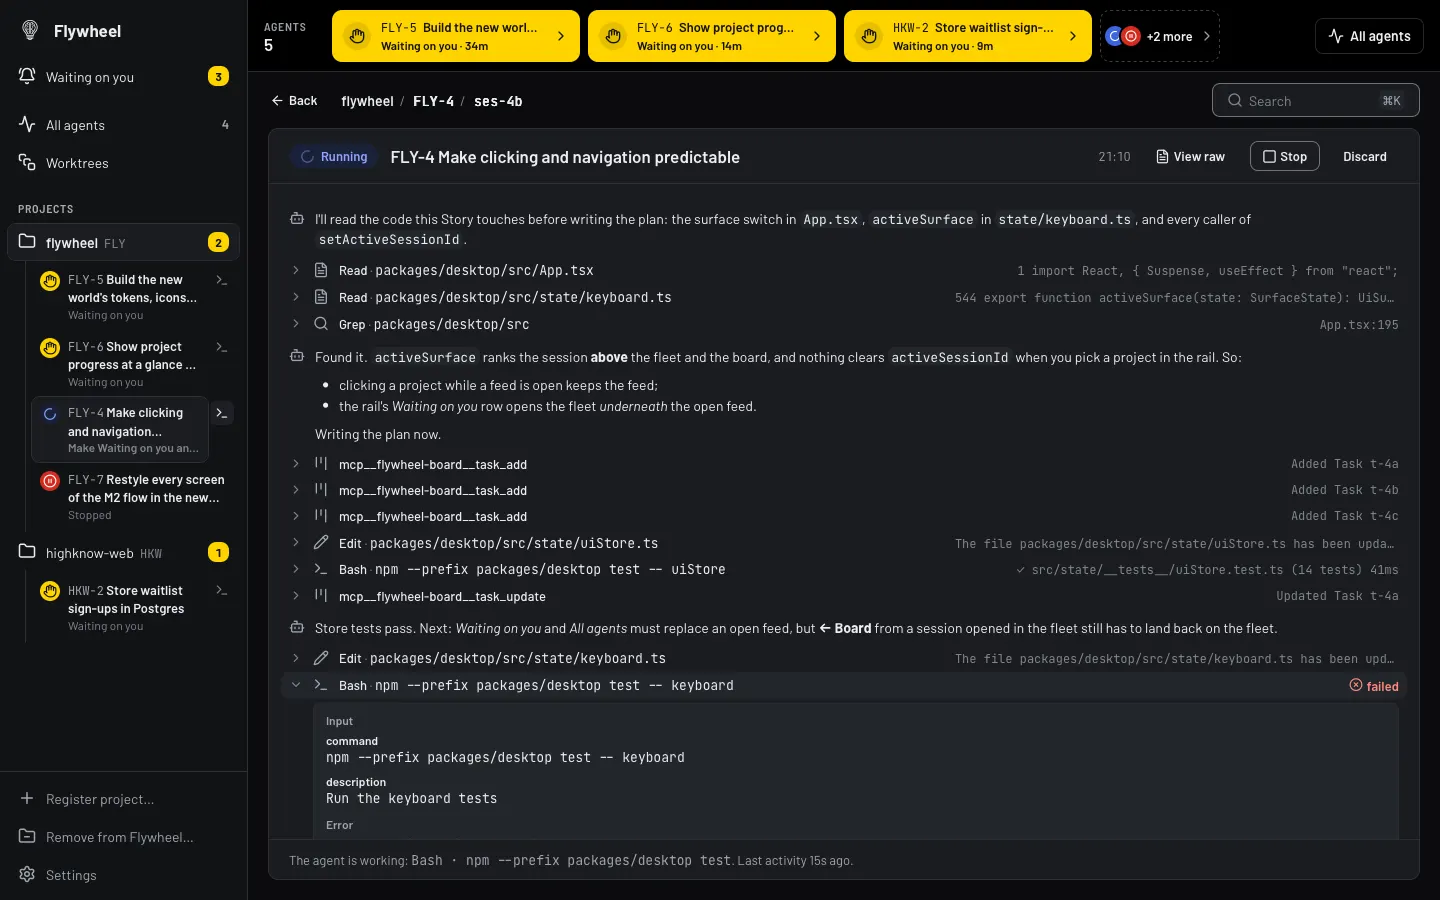
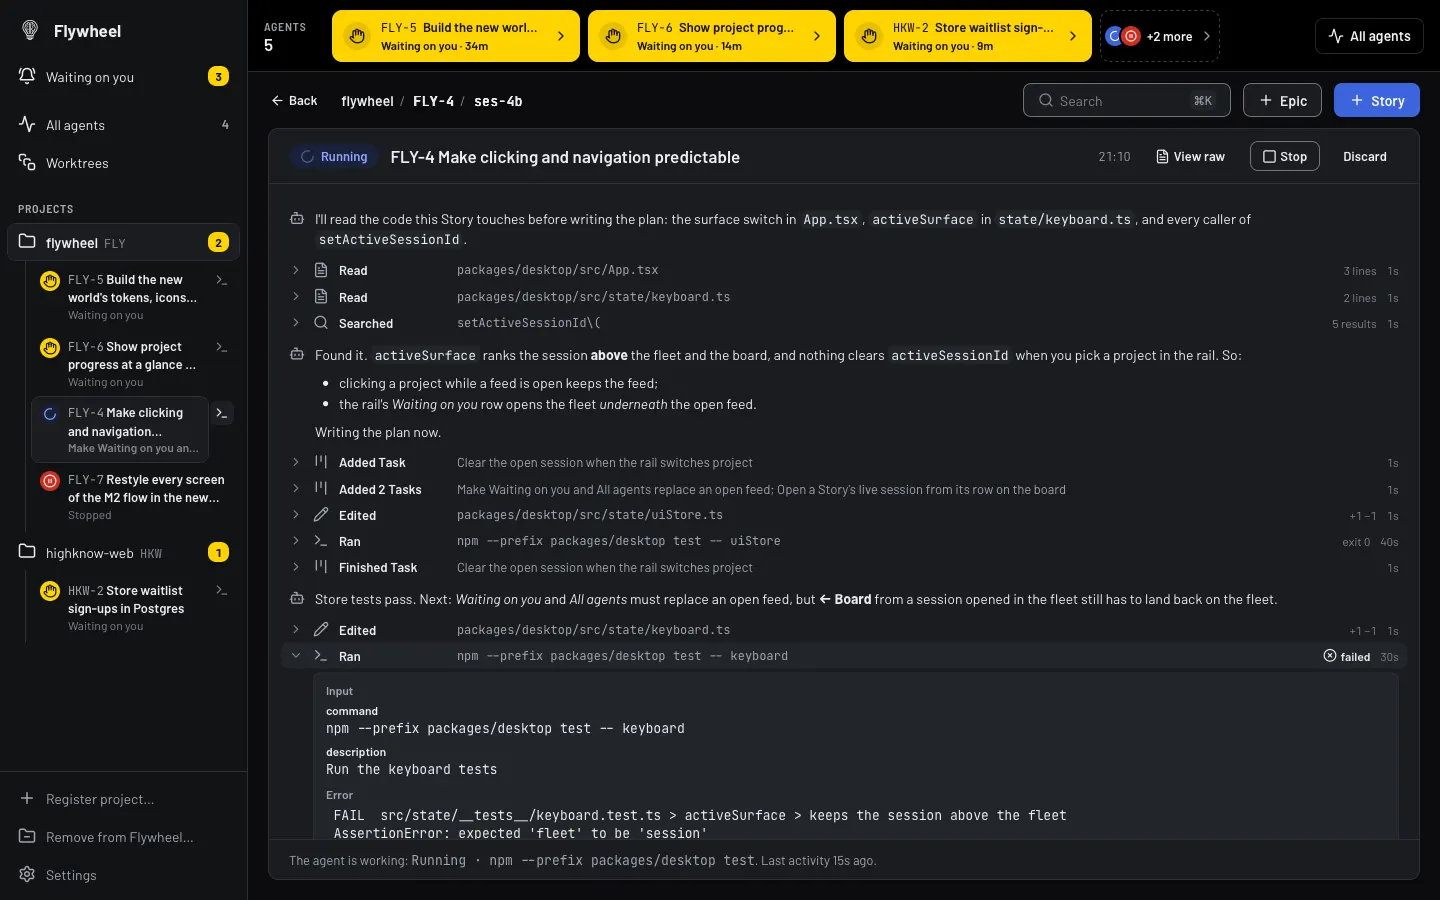
docs: the critique re-shot with the agent station, feed verbs and + Epic
The fixture's board tools now answer in the core's real shapes (task_add takes
titles, the Task tools answer the checklist, Checks and hand-off answer JSON).
Two new screens: a Story waiting on you, and the Stop confirmation. DESIGN.md
records the agent station and the feed row.

diff --git a/packages/desktop/src/test/critique/m2-fixture.ts b/packages/desktop/src/test/critique/m2-fixture.ts
@@ -149,6 +149,9 @@ const call = (secondsAgo: number, id: string, toolName: string, input: unknown) 
 const result = (secondsAgo: number, id: string, output: unknown, isError = false) => ev(secondsAgo, { type: "tool_result", output, toolUseId: id, ...(isError ? { isError: true } : {}) });
 const say = (secondsAgo: number, text: string) => ev(secondsAgo, { type: "assistant_text", text });
 const BOARD = "mcp__flywheel-board__";
+/** A Task tool's answer as the core words it (`tasks_as_tool_result`): the whole checklist, here its first `n` Tasks. */
+const checklist = (storyId: string, n: number) =>
+  JSON.stringify({ tasks: (TASKS[storyId] ?? []).slice(0, n).map((t) => ({ task_id: t.id, title: t.title, state: t.state })) });
 
 const QUESTIONS = [
   {
@@ -183,18 +186,16 @@ const LOGS: Record<string, Record<string, unknown>[]> = {
     call(1236, "t3", "Grep", { pattern: "setActiveSessionId\\(", path: "packages/desktop/src" }),
     result(1235, "t3", "App.tsx:195\nApp.tsx:219\nApp.tsx:248\nprojects/ProjectRail.tsx:170\nfleet/FleetSurface.tsx:486"),
     say(1200, "Found it. `activeSurface` ranks the session **above** the fleet and the board, and nothing clears `activeSessionId` when you pick a project in the rail. So:\n\n- clicking a project while a feed is open keeps the feed;\n- the rail's *Waiting on you* row opens the fleet *underneath* the open feed.\n\nWriting the plan now."),
-    call(1190, "t4", `${BOARD}task_add`, { title: "Clear the open session when the rail switches project" }),
-    result(1189, "t4", "Added Task t-4a"),
-    call(1188, "t5", `${BOARD}task_add`, { title: "Make Waiting on you and All agents replace an open feed" }),
-    result(1187, "t5", "Added Task t-4b"),
-    call(1186, "t6", `${BOARD}task_add`, { title: "Open a Story's live session from its row on the board" }),
-    result(1185, "t6", "Added Task t-4c"),
+    call(1190, "t4", `${BOARD}task_add`, { titles: ["Clear the open session when the rail switches project"] }),
+    result(1189, "t4", checklist("s-4", 1)),
+    call(1188, "t5", `${BOARD}task_add`, { titles: ["Make Waiting on you and All agents replace an open feed", "Open a Story's live session from its row on the board"] }),
+    result(1187, "t5", checklist("s-4", 3)),
     call(1180, "t7", "Edit", { file_path: "packages/desktop/src/state/uiStore.ts", old_string: "setCurrentProjectId: (id) => set({ currentProjectId: id }),", new_string: "setCurrentProjectId: (id) => set({ currentProjectId: id, activeSessionId: null }),", replace_all: false }),
     result(1179, "t7", "The file packages/desktop/src/state/uiStore.ts has been updated."),
     call(1100, "t8", "Bash", { command: "npm --prefix packages/desktop test -- uiStore", description: "Run the store tests" }),
     result(1060, "t8", " ✓ src/state/__tests__/uiStore.test.ts (14 tests) 41ms\n\n Test Files  1 passed (1)\n      Tests  14 passed (14)"),
     call(1050, "t9", `${BOARD}task_update`, { task_id: "t-4a", state: "done", note: "uiStore.setCurrentProjectId now also clears activeSessionId." }),
-    result(1049, "t9", "Updated Task t-4a"),
+    result(1049, "t9", checklist("s-4", 3)),
     say(400, "Store tests pass. Next: *Waiting on you* and *All agents* must replace an open feed, but **← Board** from a session opened in the fleet still has to land back on the fleet."),
     call(390, "t10", "Edit", { file_path: "packages/desktop/src/state/keyboard.ts", old_string: "if (state.sessionOpen) return \"session\";", new_string: "if (state.sessionOpen && !state.fleetRequested) return \"session\";" }),
     result(389, "t10", "The file packages/desktop/src/state/keyboard.ts has been updated."),
@@ -210,7 +211,7 @@ const LOGS: Record<string, Record<string, unknown>[]> = {
     call(2200, "u1", "Bash", { command: "npm --prefix packages/desktop test", description: "Run the desktop tests" }),
     result(2150, "u1", " Test Files  96 passed (96)\n      Tests  1204 passed (1204)"),
     call(2100, "u2", `${BOARD}task_update`, { task_id: "t-5c", state: "done" }),
-    result(2099, "u2", "Updated Task t-5c"),
+    result(2099, "u2", checklist("s-5", 4)),
     say(2050, "I'll push the branch so CI runs the WebKit browser arm, which I can't run headless here."),
     call(2040, "u3", "Bash", { command: "git push -u origin story/fly-5-tokens", description: "Push the Story branch" }),
   ],
@@ -228,9 +229,15 @@ const LOGS: Record<string, Record<string, unknown>[]> = {
     ev(7200, { type: "init", sessionId: "d00d" }),
     say(7100, "Rendering the three directions as code comps."),
     call(5000, "r1", `${BOARD}checks_run`, {}),
-    result(4900, "r1", "2 Checks passed, 0 failed"),
+    result(4900, "r1", JSON.stringify({ commit: "4f1c2ab", checks: [
+      { command: "npm --prefix packages/desktop test", result: "passed", exit_code: 0, output_tail: "" },
+      { command: "npm --prefix packages/desktop run build", result: "failed", exit_code: 1, output_tail: "error TS2322" },
+    ] })),
     call(3700, "r2", `${BOARD}handoff`, { next_session_must_know: "Three directions rendered under docs/design/directions/.", decisions: "Comps are code, not images." }),
-    result(3650, "r2", "Handed off. Checks ran: 2 passed."),
+    result(3650, "r2", JSON.stringify({ commit: "9a07d3e", checks: [
+      { command: "npm --prefix packages/desktop test", result: "passed", exit_code: 0, output_tail: "" },
+      { command: "npm --prefix packages/desktop run build", result: "passed", exit_code: 0, output_tail: "" },
+    ], recorded: true, story_state: "in_review", open_tasks: 0, next: "The Story is In review. End your turn now." })),
     ev(3600, { type: "result", inputTokens: 412000, outputTokens: 38100, totalCostUsd: 4.82 }),
     ev(3600, { type: "session_closed", reason: "completed" }),
   ],

diff --git a/packages/desktop/src/test/critique/m2-flow.critique.browser.test.tsx b/packages/desktop/src/test/critique/m2-flow.critique.browser.test.tsx
@@ -114,7 +114,7 @@ describe.runIf(Boolean(SCHEME))("M2 flow screens", () => {
   it("08 session feed, a call expanded", async () => {
     await boardReady();
     await click(/Open FLY-4 Make clicking/);
-    await click(/Bash · npm --prefix packages\/desktop test -- keyboard/);
+    await click(/Ran · npm --prefix packages\/desktop test -- keyboard/);
     await shot("08-feed-call-expanded");
   });
 
@@ -181,6 +181,21 @@ describe.runIf(Boolean(SCHEME))("M2 flow screens", () => {
     } finally {
       await page.viewport(1440, 900);
     }
+  });
+
+  it("18 Story waiting on you: the agent station with Answer, Stop and its live tail (issue #118)", async () => {
+    await boardReady();
+    await openStory("FLY-6", "Show project progress at a glance on the board");
+    await screen.findByRole("list", { name: "Last tool calls" });
+    await shot("18-story-station-waiting");
+  });
+
+  it("19 Stop confirmation from the agent station (issue #118)", async () => {
+    await boardReady();
+    await openStory("FLY-4", "Make clicking and navigation predictable");
+    await click("Stop FLY-4");
+    await screen.findByRole("alertdialog");
+    await shot("19-story-stop-confirm");
   });
 
   it("16 navigation: picking a project while the fleet is open", async () => {

diff --git a/DESIGN.md b/DESIGN.md
@@ -292,7 +292,7 @@ A neutral grey ramp with three signal hues and one hardware graphite; every toke
 
 A desktop window, 900px minimum width. A light sidebar on the left; content to the right on the grey floor. Spacing is a 4px base: 8 inside a group, 12 to 16 between groups, 20 between regions; the space tokens (`xs` to `2xl`) carry it for screens still on inline styles. Rows are 44px, sidebar rows 36px.
 
-The composition: a 72px andon strip across the content top on every screen, then a 56px top bar (Back, the breadcrumb, the ⌘K search and the surface's add or run controls), then the surface on the floor, 20px in from the edges, its content in cards up to 1240px wide. The board is the Current Milestone's header (name, Exit test, lead box, count boxes, stacked bar), then the roster: one card per Epic, headed by its own stacked bar and "n of m Stories merged" when it is in the Current Milestone, its Stories as rows. Each Epic appears once. The Story view is a title card, the live agent's station, then Acceptance criteria beside Tasks, then Sessions. Not built yet: Needs you as a 400px column beside the roster, and the Story view beside a 470px roster at content widths of 1280px and up; today the Story view takes the whole content area at every width.
+The composition: a 72px andon strip across the content top on every screen, then a 56px top bar (Back, the breadcrumb, the ⌘K search and the surface's add or run controls; + Epic beside a filled + Story on the board, the Story view and the session feed), then the surface on the floor, 20px in from the edges, its content in cards up to 1240px wide. The board is the Current Milestone's header (name, Exit test, lead box, count boxes, stacked bar), then the roster: one card per Epic, headed by its own stacked bar and "n of m Stories merged" when it is in the Current Milestone, its Stories as rows. Each Epic appears once. The Story view is a title card, the live agent's station, then Acceptance criteria beside Tasks, then Sessions. Not built yet: Needs you as a 400px column beside the roster, and the Story view beside a 470px roster at content widths of 1280px and up; today the Story view takes the whole content area at every width.
 
 **The click model.** What you click decides where you land, and every place is shown in the breadcrumb:
 - A project in the sidebar opens that project's board, replacing whatever was on top.
@@ -357,6 +357,12 @@ The one place a state picks a colour. It takes a state (Story state, attention s
 - **Style:** 34px tall, card ground, 1px control edge, 8px corners, 12px sides, body size; textarea grows with content from 64px. Placeholder in meta ink. The caret is running ink.
 - **Focus:** the 2px ring at a 2px offset.
 - **Error / Disabled:** a red edge with a faint red ring; disabled sits on the inset ground at 50%.
+
+### Agent Station
+The live agent on a Story (`board/StoryView.tsx`), under its title card while a session is live. A graphite block with the strip's edge while the agent works; the yellow tint with an attention edge while it waits on you. A 40px bulb (brand fill, the `bot` glyph; attention fill while waiting), the doing Task's title at row size, the state pill with "Live session since …", the Task's note clamped to two lines. On the right, Open session (filled primary) or Answer (attention), then Stop (outline; on graphite a light edge and strip ink), which always confirms in an AlertDialog. Below a rule (white at 15% on graphite, `border` on the tint), the live tail: the agent's last four tool calls as feed lines in strip ink, the one in flight with its running clock and a brand-blue loader.
+
+### Feed Rows
+A tool call is one line (`session/FeedRow.tsx`, worded by `session/toolVerbs.ts`): the disclosure chevron, the kind's Lucide icon, a plain verb in a 108px semibold column (Read, Edited, Wrote, Ran, Searched; board tools by their meaning: Added Task, Finished Task, Ran Checks, Handed off), what it acted on (code face for paths and commands, reading face for Task titles), then the metrics column on the right in meta ink, tabular: lines, `+added −removed`, exit status, Check results, and the duration. A failed command is neutral ink beside `circle-x`; only a failed Check is red. A call in flight reads in the progressive ("Running") with its clock in running ink. No raw `mcp__` tool name is printed anywhere outside View raw.
 
 ### Navigation
 - **Sidebar:** the `sidebar` ground behind a right edge; the current project or Story is a raised `sidebar-primary` card, hover is `sidebar-accent`; group names in the condensed label; session sub-items indent behind a 1px rule.

diff --git a/docs/design/critique-2026-10.md b/docs/design/critique-2026-10.md
@@ -120,6 +120,8 @@ and "n of m Stories merged" (each Epic appears once). See 01 above and 17 below.
 | 15 | A project chosen while a feed is open | ![](critique-2026-10/after/15-nav-project-click-keeps-feed-light.webp) | ![](critique-2026-10/after/15-nav-project-click-keeps-feed-dark.webp) |
 | 16 | A project chosen while All agents is open | ![](critique-2026-10/after/16-nav-project-click-keeps-fleet-light.webp) | ![](critique-2026-10/after/16-nav-project-click-keeps-fleet-dark.webp) |
 | 17 | Board at the 900px minimum window width | ![](critique-2026-10/after/17-board-min-width-light.webp) | ![](critique-2026-10/after/17-board-min-width-dark.webp) |
+| 18 | Story Waiting on you: its agent station with Answer, Stop and the live tail (#118) | ![](critique-2026-10/after/18-story-station-waiting-light.webp) | ![](critique-2026-10/after/18-story-station-waiting-dark.webp) |
+| 19 | Stop confirmation from the agent station (#118) | ![](critique-2026-10/after/19-story-stop-confirm-light.webp) | ![](critique-2026-10/after/19-story-stop-confirm-dark.webp) |
 
 ## How the screens were rendered
 
